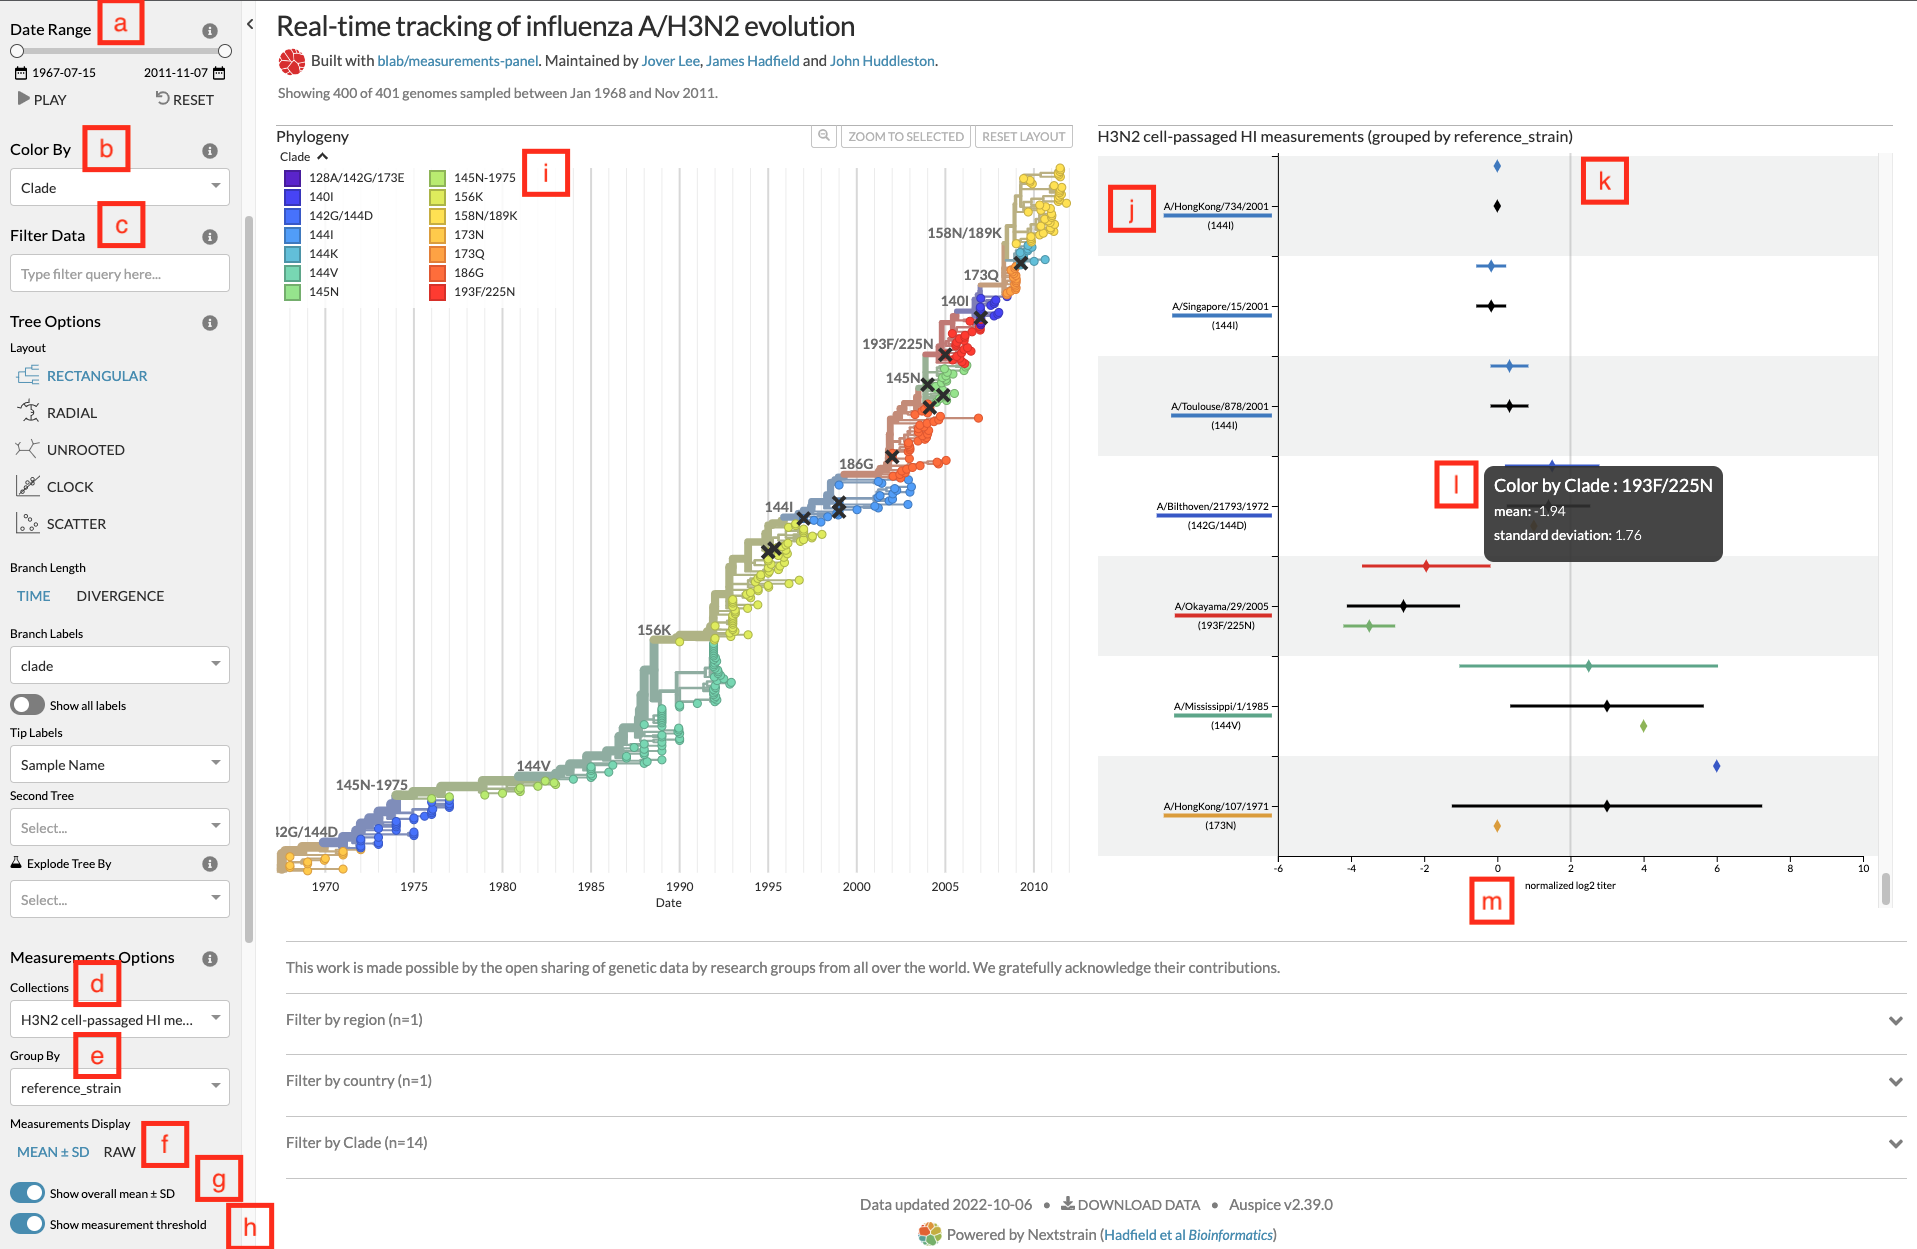
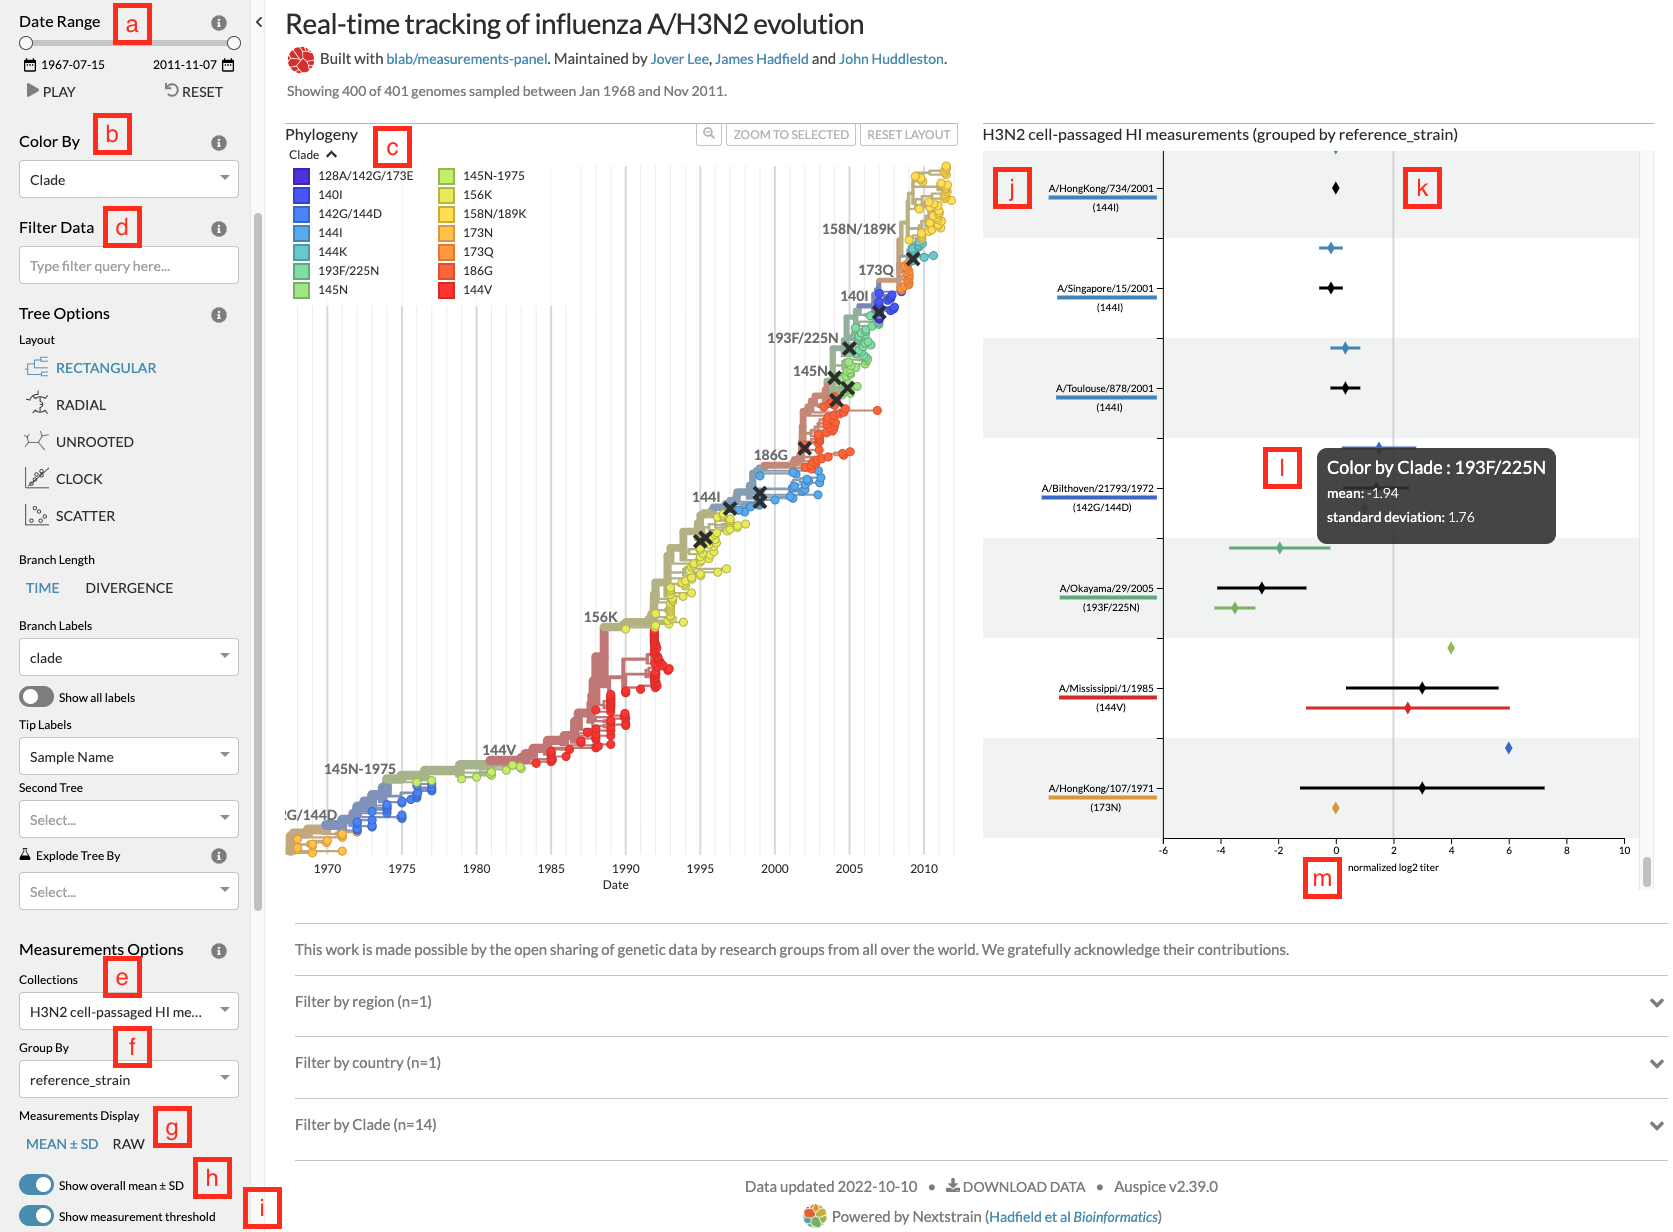
Update figure 2 with latest build

diff --git a/manuscript/measurements-panel.tex b/manuscript/measurements-panel.tex
@@ -246,13 +246,13 @@ This view allows users to perform the same tasks as the interval plot, but it al
     Screenshot of Auspice with the sidebar controls, the phylogeny tree panel, and the measurements panel.
 a) Date range slider to filter both tree and measurements by the test virus sample date.
 b) Color-by dropdown to change the attribute to use for coloring the tree and measurements.
-c) Data filter search bar to filter tree and measurements data by specific attributes.
-d) Measurements collection dropdown to change the collection of measurements displayed.
-e) Measurements group by dropdown to change the grouping of measurements data.
-f) Toggle to change measurements display between mean with standard deviation and individual raw measurements.
-g) Toggle to display or hide the overall mean and standard deviation for each group.
-h) Toggle to display or hide the threshold line.
-i) Legend for colors and their corresponding values linked to viruses in the tree and measurements.
+c) Legend for colors and their corresponding values linked to viruses in the tree and measurements.
+d) Data filter search bar to filter tree and measurements data by specific attributes.
+e) Measurements collection dropdown to change the collection of measurements displayed.
+f) Measurements group by dropdown to change the grouping of measurements data.
+g) Toggle to change measurements display between mean with standard deviation and individual raw measurements.
+h) Toggle to display or hide the overall mean and standard deviation for each group.
+i) Toggle to display or hide the threshold line.
 j) Grouping label for each group of measurements.
 This particular view uses reference viruses that are also present in the tree so the label includes the virus' corresponding color and color-by value.
 k) The threshold line for titer measurements to indicate the threshold for antigenically distinct viruses.
